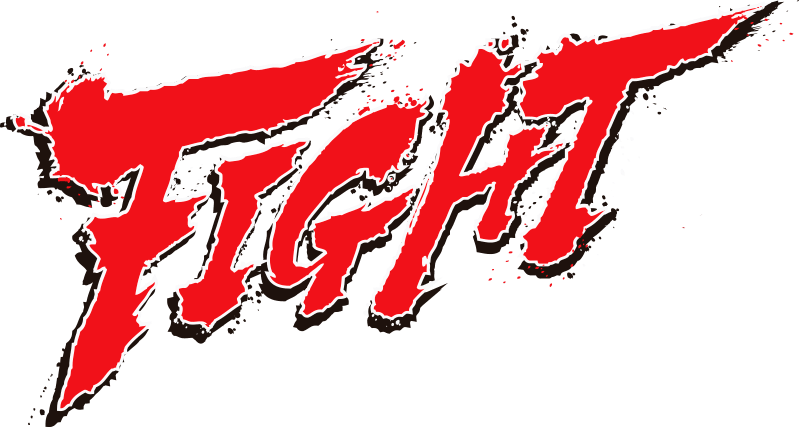
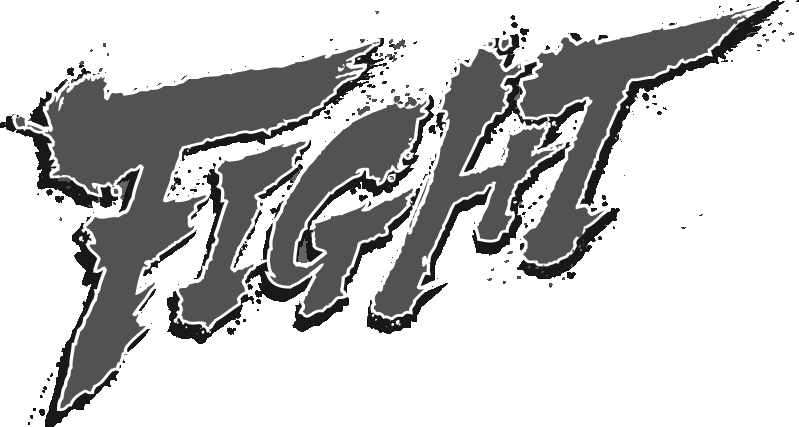
commit

Changed region(s): [[0.0, 0.0, 0.9912, 0.9742]]

diff --git a/assets/js/script.js b/assets/js/script.js
@@ -47,7 +47,7 @@ selectHuman.forEach(eachTableElement => {
             imgResultComputer.innerHTML = `<img class="imgShifumiResultComputerWin" src="assets/img/${choiceComputer}.png">`;
         } else if (choiceHuman == 'Pierre' && choiceComputer == 'Feuille') {
             // PERDU
-            document.getElementById("resultBattle").style.color = "#f00020";
+            document.getElementById("resultBattle").style.color = "#272727";
             resultBattle.innerHTML = resultLost;
             computerPoints = computerPoints + 1;
             imgResult.innerHTML = `<img class="imgShifumiWinLose" src="assets/img/lost.png">`;
@@ -55,7 +55,7 @@ selectHuman.forEach(eachTableElement => {
             imgResultComputer.innerHTML = `<img class="imgShifumiResultComputerWin" src="assets/img/${choiceComputer}.png">`;
         } else if (choiceHuman == 'Pierre' && choiceComputer == 'Ciseaux') {
             // GAGNE
-            document.getElementById("resultBattle").style.color = "#228B22";
+            document.getElementById("resultBattle").style.color = "##272727";
             resultBattle.innerHTML = resultWin;
             playerPoints = playerPoints + 1;
             imgResult.innerHTML = `<img class="imgShifumiWinLose" src="assets/img/win.png">`;
@@ -63,7 +63,7 @@ selectHuman.forEach(eachTableElement => {
             imgResultComputer.innerHTML = `<img class="imgShifumiResultComputerLost" src="assets/img/${choiceComputer}.png">`;
         } else if (choiceHuman == 'Feuille' && choiceComputer == 'Pierre') {
             // GAGNE
-            document.getElementById("resultBattle").style.color = "#228B22";
+            document.getElementById("resultBattle").style.color = "##272727";
             resultBattle.innerHTML = resultWin;
             playerPoints = playerPoints + 1;
             imgResult.innerHTML = `<img class="imgShifumiWinLose" src="assets/img/win.png">`;
@@ -80,7 +80,7 @@ selectHuman.forEach(eachTableElement => {
             imgResultComputer.innerHTML = `<img class="imgShifumiResultComputerWin" src="assets/img/${choiceComputer}.png">`;
         } else if (choiceHuman == 'Feuille' && choiceComputer == 'Ciseaux') {
             // PERDU
-            document.getElementById("resultBattle").style.color = "#f00020";
+            document.getElementById("resultBattle").style.color = "#272727";
             resultBattle.innerHTML = resultLost;
             computerPoints = computerPoints + 1;
             imgResult.innerHTML = `<img class="imgShifumiWinLose" src="assets/img/lost.png">`;
@@ -88,7 +88,7 @@ selectHuman.forEach(eachTableElement => {
             imgResultComputer.innerHTML = `<img class="imgShifumiResultComputerWin" src="assets/img/${choiceComputer}.png">`;
         } else if (choiceHuman == 'Ciseaux' && choiceComputer == 'Pierre') {
             // PERDU
-            document.getElementById("resultBattle").style.color = "#f00020";
+            document.getElementById("resultBattle").style.color = "#272727";
             resultBattle.innerHTML = resultLost;
             computerPoints = computerPoints + 1;
             imgResult.innerHTML = `<img class="imgShifumiWinLose" src="assets/img/lost.png">`;
@@ -96,7 +96,7 @@ selectHuman.forEach(eachTableElement => {
             imgResultComputer.innerHTML = `<img class="imgShifumiResultComputerWin" src="assets/img/${choiceComputer}.png">`;
         } else if (choiceHuman == 'Ciseaux' && choiceComputer == 'Feuille') {
             // GAGNE
-            document.getElementById("resultBattle").style.color = "#228B22";
+            document.getElementById("resultBattle").style.color = "##272727";
             resultBattle.innerHTML = resultWin;
             playerPoints = playerPoints + 1;
             imgResult.innerHTML = `<img class="imgShifumiWinLose" src="assets/img/win.png">`;

diff --git a/assets/css/style.css b/assets/css/style.css
@@ -276,13 +276,13 @@ html {
     #imgResultPlayer {
         text-align: right;
         position: relative;
-        left: 25px;
+        left: 55px;
     }
 
     #imgResultComputer {
         text-align: left;
         position: relative;
-        right: 95px;
+        right: 55px;
     }
 
     #imgResult {
@@ -330,14 +330,14 @@ html {
     }
 
     .imgShifumiResultPlayerWin {
-        width: 150%;
+        width: 80%;
         text-align: right;
         animation: animPlayer 1s ease-in-out 1s 1 normal both, jelloWin 1s ease 4s infinite normal forwards;
 
     }
 
     .imgShifumiResultPlayerLost {
-        width: 150%;
+        width: 80%;
         text-align: right;
         /* background-color: blue; */
         animation: animPlayer 1s ease-in-out 1s 1 normal both, rotateExitPlayer 1s ease 4s 1 normal forwards;
@@ -345,14 +345,14 @@ html {
 
 
     .imgShifumiResultComputerWin {
-        width: 150%;
+        width: 80%;
         text-align: left;
         animation: animComputer 1s ease-in-out 2s 1 normal both, jelloWin 1s ease 4s infinite normal forwards;
     }
 
 
     .imgShifumiResultComputerLost {
-        width: 150%;
+        width: 80%;
         text-align: left;
         animation: animComputer 1s ease-in-out 2s 1 normal both, rotateExitComputer 1s ease 4s 1 normal forwards;
     }
@@ -383,9 +383,9 @@ html {
 
 
 #btn {
-    color: #B82326;
-    background-color: #EBC363;
-    box-shadow: 0 0 0 0.25rem rgb(161 17 13 / 50%);
+    color: #AEAEAE;
+    /* background-color: #7C7C7C; */
+    /* box-shadow: 0 0 0 0.25rem rgb(161 17 13 / 50%); */
 }
 
 
@@ -394,7 +394,7 @@ html {
 .copyright {
     font-size: 10px;
     font-style: italic;
-    color: #B02624;
+    color: #AEAEAE;
     display: flex;
     justify-content: start;
     align-items: center;
@@ -600,9 +600,9 @@ html {
     left: 50%;
     content: 'On';
     color: #fff;
-    background-color: #B02624;
+    background-color: #787878;
     box-shadow: -3px -3px 5px rgba(255, 255, 255, .5),
-        3px 3px 5px #B02624;
+        3px 3px 5px #787878;
 }
 
 
